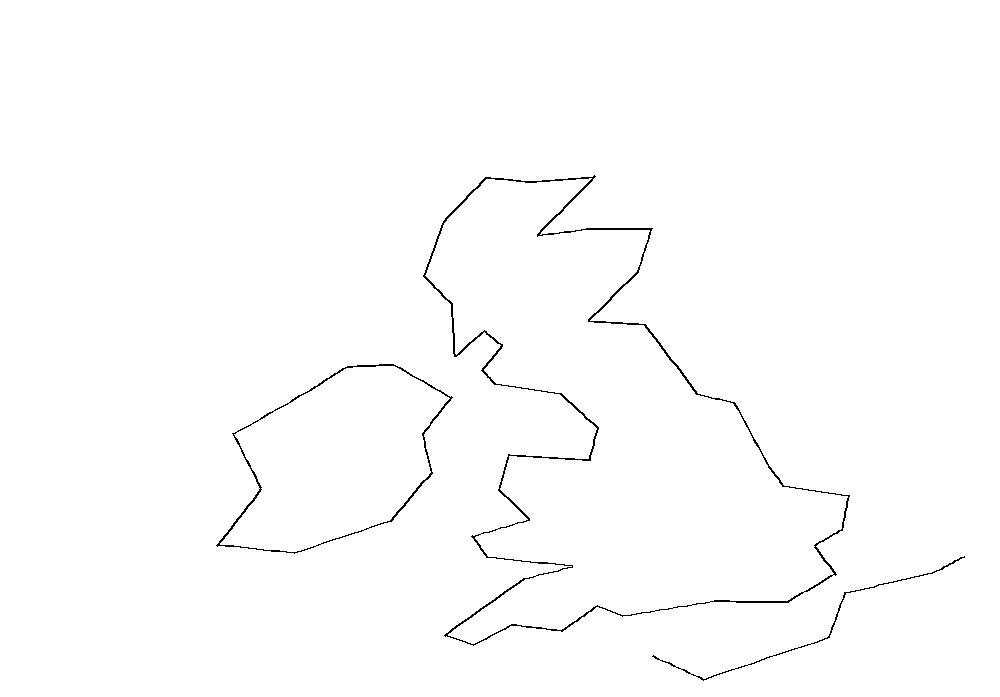
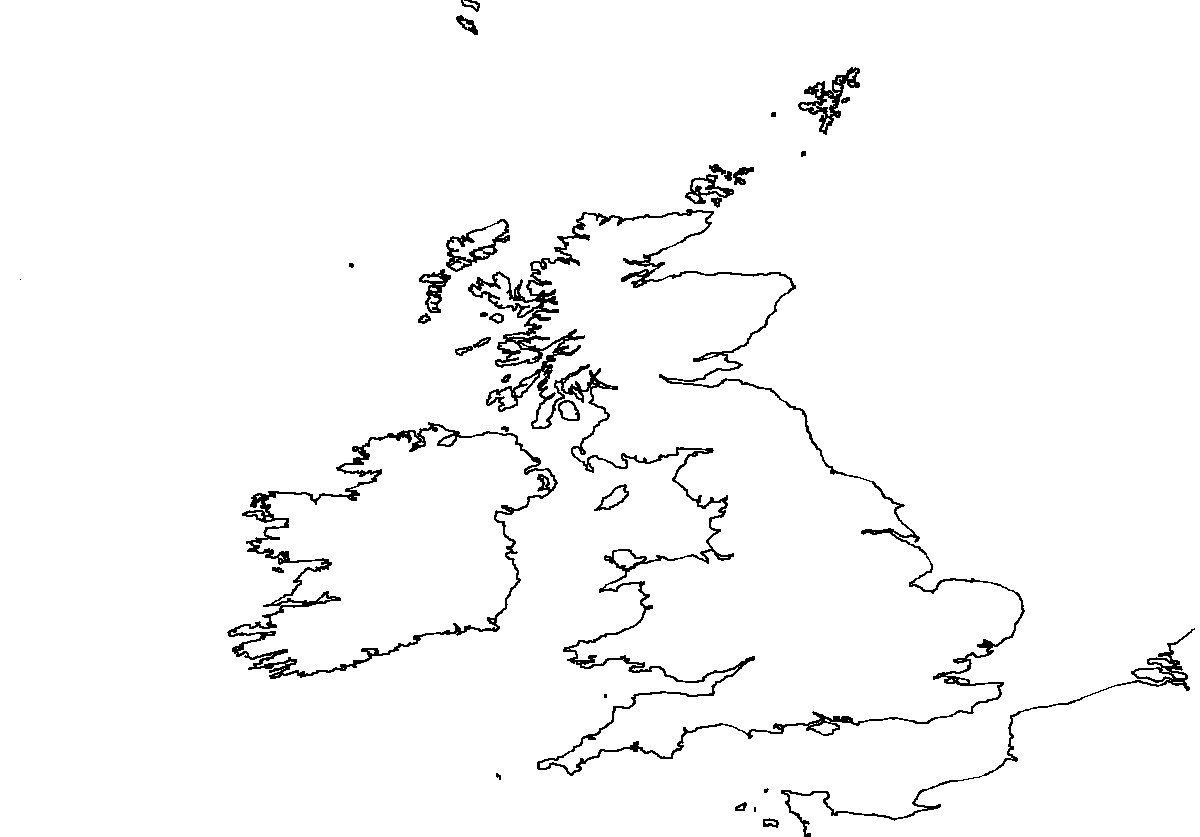
feat(coastline): support 10m/50m/110m Natural Earth; regenerate WGS84 map at 1200px using 10m data

diff --git a/app/utils/geocalibrate.py b/app/utils/geocalibrate.py
@@ -252,24 +252,22 @@ def calibrate_affine_from_coastline(
 # -------------------------- Data helpers ---------------------------
 
 
-def download_natural_earth_110m_uk_coastline(
-    max_points: int = 4000,
+def download_natural_earth_coastline(
+    resolution: str = "10m", max_points: int | None = None
 ) -> List[Tuple[float, float]]:
-    """Download a lightweight Natural Earth coastline and extract UK/IE outline.
+    """Download Natural Earth coastline and return UK/IE shoreline points.
 
-    This function fetches a low-resolution coastline vector (110m) and
-    returns a list of (lon, lat) points along the shoreline of the British
-    Isles. The dataset is cached in-memory only; callers can persist as needed.
-
-    Note: Network access is required; handle failures in callers.
+    - resolution: one of {"10m", "50m", "110m"}
+    - max_points: optional cap; if None, keep all points
     """
 
-    # A small coastline lines dataset (~1.4MB). Mirror chosen for raw access.
+    if resolution not in {"10m", "50m", "110m"}:
+        raise ValueError("resolution must be one of {'10m','50m','110m'}")
     url = (
         "https://raw.githubusercontent.com/nvkelso/natural-earth-vector/master/"
-        "geojson/ne_110m_coastline.geojson"
+        f"geojson/ne_{resolution}_coastline.geojson"
     )
-    resp = requests.get(url, timeout=30)
+    resp = requests.get(url, timeout=60)
     resp.raise_for_status()
     data = resp.json()
 
@@ -279,24 +277,30 @@ def download_natural_earth_110m_uk_coastline(
         if geom.get("type") != "LineString":
             continue
         line: List[List[float]] = geom.get("coordinates", [])
-        # Filter by longitude/latitude window around the British Isles
         for lon, lat in line:
-            if -14.0 <= lon <= 4.5 and 49.0 <= lat <= 61.8:
+            if -14.5 <= lon <= 5.5 and 48.5 <= lat <= 62.5:
                 coords.append((float(lon), float(lat)))
 
     if not coords:
         raise RuntimeError("No coastline points found in the UK bounding window.")
 
     pts = np.asarray(coords, dtype=np.float32)
-    # Uniformly downsample if necessary
-    if pts.shape[0] > max_points:
+    if max_points is not None and pts.shape[0] > max_points:
         idx = np.linspace(0, pts.shape[0] - 1, num=max_points, dtype=int)
         pts = pts[idx]
     return [(float(x), float(y)) for x, y in pts]
 
 
+def download_natural_earth_110m_uk_coastline(
+    max_points: int = 4000,
+) -> List[Tuple[float, float]]:
+    """Backwards-compatible wrapper returning 110m data."""
+    return download_natural_earth_coastline("110m", max_points=max_points)
+
+
 __all__ = [
     "CalibrationResult",
     "calibrate_affine_from_coastline",
+    "download_natural_earth_coastline",
     "download_natural_earth_110m_uk_coastline",
 ]

diff --git a/scripts/make_wgs84_ukmap.py b/scripts/make_wgs84_ukmap.py
@@ -23,10 +23,11 @@ import requests
 from PIL import Image, ImageDraw
 
 
-def download_coastlines() -> dict:
+def download_coastlines(resolution: str = "10m") -> dict:
+    assert resolution in {"10m", "50m", "110m"}
     url = (
         "https://raw.githubusercontent.com/nvkelso/natural-earth-vector/master/"
-        "geojson/ne_110m_coastline.geojson"
+        f"geojson/ne_{resolution}_coastline.geojson"
     )
     r = requests.get(url, timeout=60)
     r.raise_for_status()
@@ -127,9 +128,15 @@ def main() -> None:
     p.add_argument("--lat-north", type=float, default=61.9)
     p.add_argument("--out-image", default="res/ukmap_wgs84.png")
     p.add_argument("--out-calib", default="res/uk_map_calibration_wgs84.json")
+    p.add_argument(
+        "--resolution",
+        default="10m",
+        choices=["10m", "50m", "110m"],
+        help="Natural Earth coastline resolution",
+    )
     args = p.parse_args()
 
-    gj = download_coastlines()
+    gj = download_coastlines(args.resolution)
     lines = filter_uk_lines(
         gj, args.lon_west, args.lat_south, args.lon_east, args.lat_north
     )
